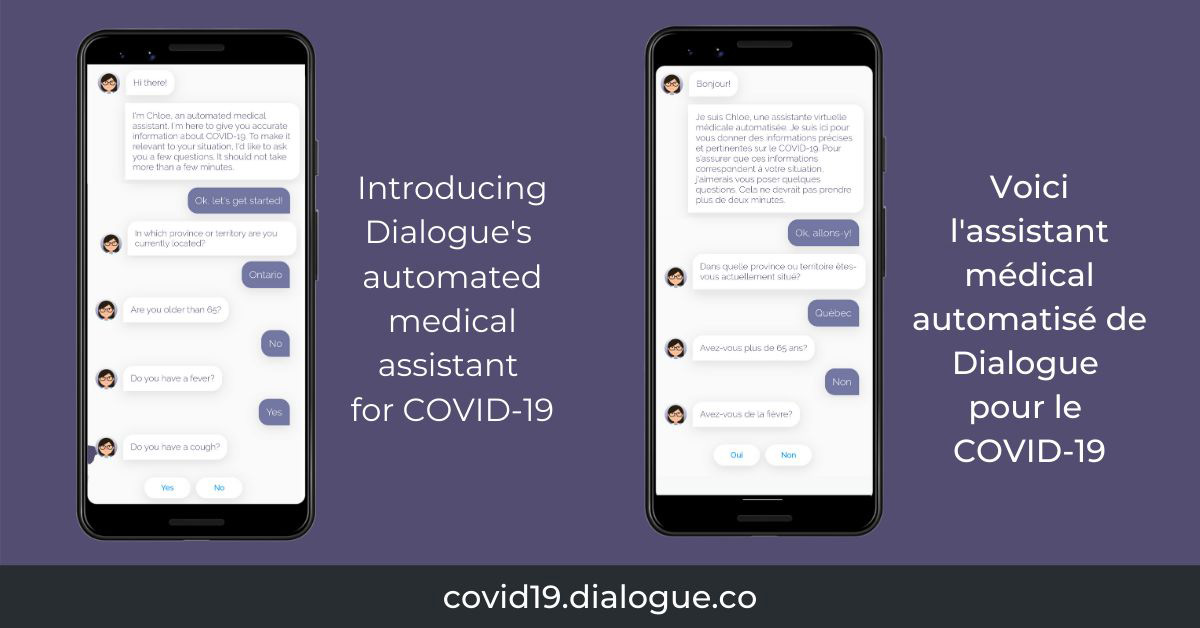
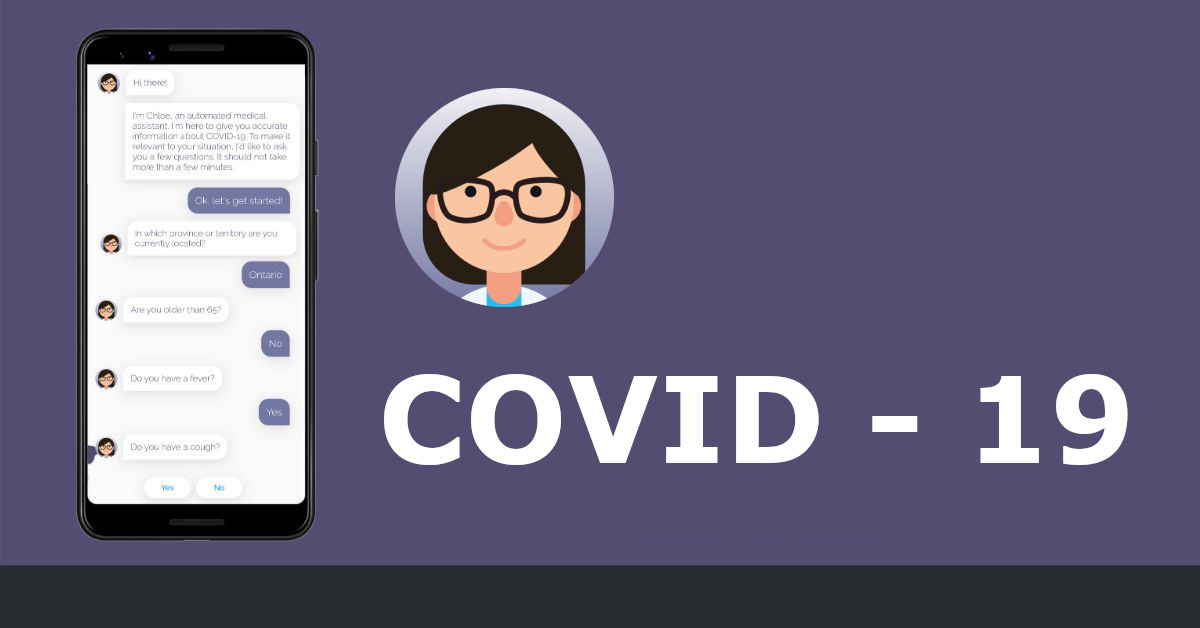
feat: add generic share-image and generalize meta content to minimum (#170)
metadata content: "Dialogue Chloe", share-image with doc-lady

diff --git a/public/index.html b/public/index.html
@@ -5,7 +5,7 @@
     <meta property="og:url"           content="%REACT_APP_SHARE_PUBLIC_URL%/" />
     <meta property="og:type"          content="website" />
     <meta property="og:title"         content="Dialogue COVID-19 Info" />
-    <meta property="og:description"   content="Dialogue Chloe, an automated medical assistant, provides Canadians with personalized access to the latest localized public health information as the government's response to the COVID-19 outbreak continues to develop." />
+    <meta property="og:description"   content="Dialogue Chloe" />
     <meta property="og:locale"        content="en" />
     <meta property="og:image"         content="%REACT_APP_SHARE_PUBLIC_URL%/share-image.jpg?v=%REACT_APP_COMMIT_SHA1%" />
     <meta property="og:image:width"   content="1200" />
